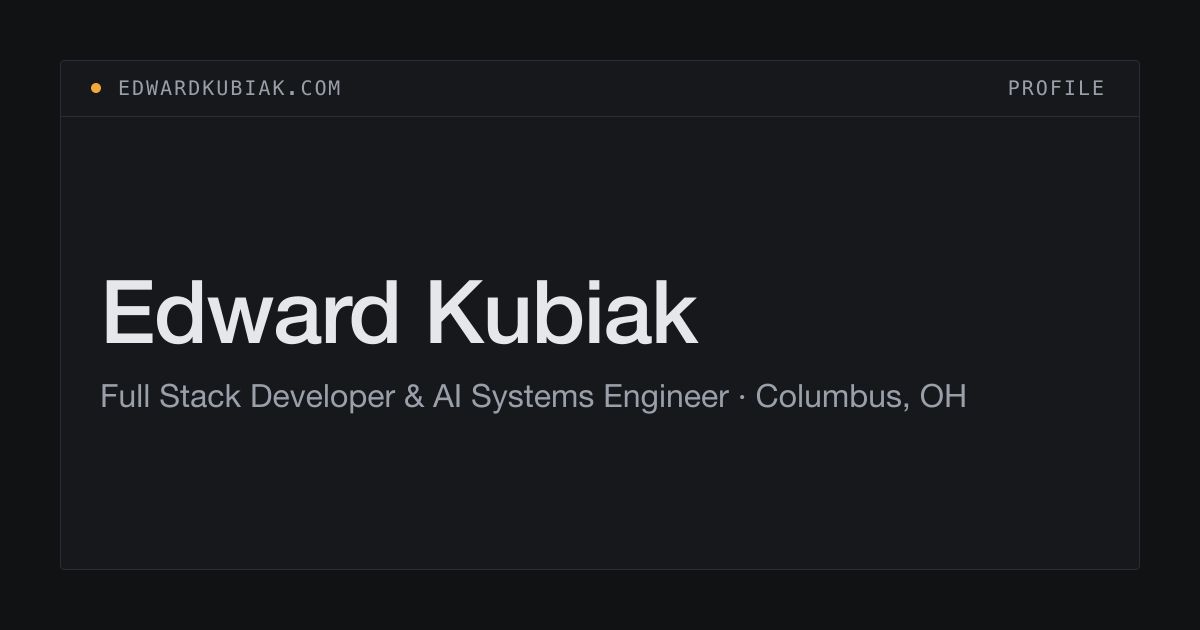
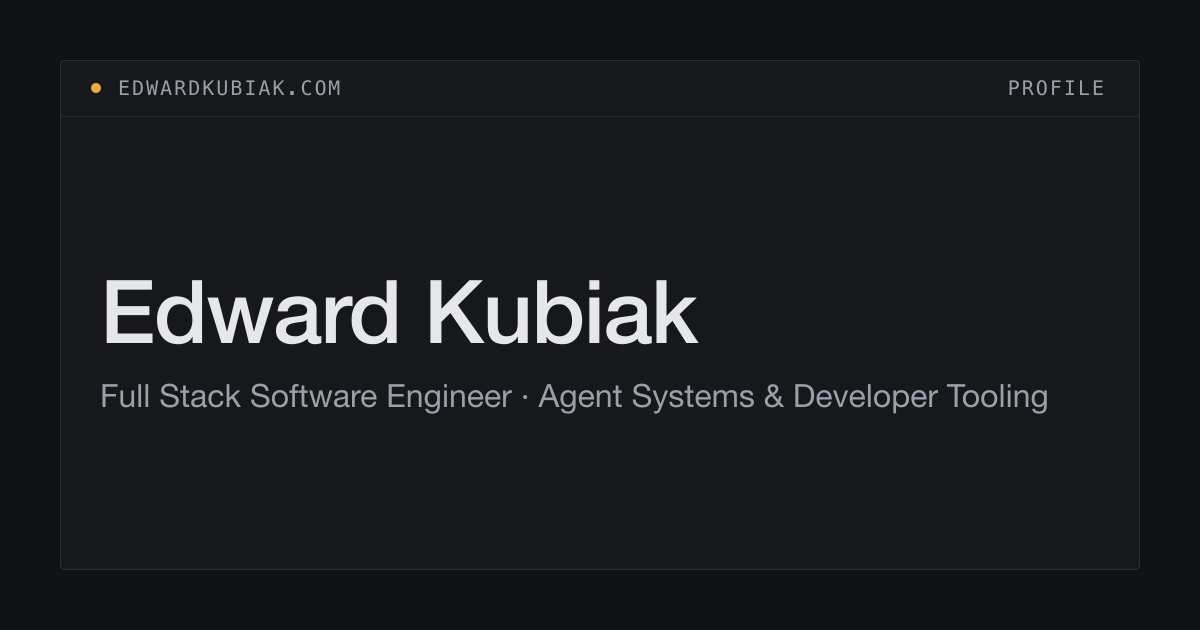
Use the canonical tagline in page metadata; drop the location (#70)
resume.js has said "Full Stack Software Engineer · Agent Systems &
Developer Tooling" since 2026-09-09, but the page metadata still said
"Full Stack Developer & AI Systems Engineer in Columbus, OH".

- Titles (document, OG, Twitter, routeMeta, manifest name) use "Edward
  Kubiak — Full Stack Software Engineer".
- Descriptions (meta, OG, Twitter, JSON-LD, manifest, RSS channel)
  and the site OG card subtitle use the full tagline, with no location.
  The site shell already shows none.
- Regenerate public/og-image.png with the documented invocation; the
  test now pins the new subtitle.
- Remove public/og/og-image.png, an unreferenced August card that still
  showed the old tagline and a clipped "Columbus".

The JSON-LD address and the résumé's location stay.

Changed region(s): [[0.2158, 0.6032, 0.8942, 0.6635]]

diff --git a/index.html b/index.html
@@ -9,12 +9,12 @@
     <meta http-equiv="Content-Security-Policy"
       content="default-src 'self'; script-src 'self' 'unsafe-inline' https://plausible.io; style-src 'self' 'unsafe-inline'; connect-src 'self' https://api.github.com https://plausible.io; img-src 'self' data:; font-src 'self';" />
     <meta name="referrer" content="strict-origin-when-cross-origin" />
-    <meta name="description" content="Edward Kubiak — Full Stack Developer &amp; AI Systems Engineer in Columbus, OH. Creator of CAST, a Claude Code agent framework, and Compute Atlas, a source-cited compute tracker." />
+    <meta name="description" content="Edward Kubiak — Full Stack Software Engineer · Agent Systems &amp; Developer Tooling. Creator of CAST, a Claude Code agent framework, and Compute Atlas, a source-cited compute tracker." />
 
     <!-- Open Graph -->
     <meta property="og:type" content="website" />
-    <meta property="og:title" content="Edward Kubiak — Full Stack Developer &amp; AI Systems Engineer" />
-    <meta property="og:description" content="Edward Kubiak — Full Stack Developer &amp; AI Systems Engineer in Columbus, OH. Creator of CAST, a Claude Code agent framework, and Compute Atlas, a source-cited compute tracker." />
+    <meta property="og:title" content="Edward Kubiak — Full Stack Software Engineer" />
+    <meta property="og:description" content="Edward Kubiak — Full Stack Software Engineer · Agent Systems &amp; Developer Tooling. Creator of CAST, a Claude Code agent framework, and Compute Atlas, a source-cited compute tracker." />
     <meta property="og:url" content="https://edwardkubiak.com/" />
 
     <meta property="og:image" content="https://edwardkubiak.com/og-image.png" />
@@ -23,8 +23,8 @@
 
     <!-- Twitter Card -->
     <meta name="twitter:card" content="summary_large_image" />
-    <meta name="twitter:title" content="Edward Kubiak — Full Stack Developer &amp; AI Systems Engineer" />
-    <meta name="twitter:description" content="Edward Kubiak — Full Stack Developer &amp; AI Systems Engineer in Columbus, OH. Creator of CAST, a Claude Code agent framework, and Compute Atlas, a source-cited compute tracker." />
+    <meta name="twitter:title" content="Edward Kubiak — Full Stack Software Engineer" />
+    <meta name="twitter:description" content="Edward Kubiak — Full Stack Software Engineer · Agent Systems &amp; Developer Tooling. Creator of CAST, a Claude Code agent framework, and Compute Atlas, a source-cited compute tracker." />
     <meta name="twitter:image" content="https://edwardkubiak.com/og-image.png" />
 
     <link rel="canonical" href="https://edwardkubiak.com/" />
@@ -33,7 +33,7 @@
     <link rel="apple-touch-icon" href="/apple-touch-icon.png?v=3" />
     <link rel="manifest" href="/manifest.json" />
     <link rel="alternate" type="application/rss+xml" title="Edward Kubiak" href="/rss.xml" />
-    <title>Edward Kubiak — Full Stack Developer &amp; AI Systems Engineer</title>
+    <title>Edward Kubiak — Full Stack Software Engineer</title>
 
     <!-- Plausible Analytics — privacy-preserving, cookieless -->
     <script defer data-domain="edwardkubiak.com" src="https://plausible.io/js/script.js"></script>
@@ -44,13 +44,13 @@
       "@context": "https://schema.org",
       "@type": "Person",
       "name": "Edward Kubiak",
-      "jobTitle": "Full Stack Developer & AI Systems Engineer",
+      "jobTitle": "Full Stack Software Engineer",
       "url": "https://edwardkubiak.com",
       "sameAs": [
         "https://github.com/ek33450505",
         "https://www.linkedin.com/in/edward-kubiak/"
       ],
-      "description": "Full Stack Developer & AI Systems Engineer based in Columbus, OH. Creator of CAST, a local-first open-source multi-agent framework for Claude Code, and Compute Atlas, a source-cited tracker of U.S. grid-scale compute infrastructure.",
+      "description": "Full Stack Software Engineer · Agent Systems & Developer Tooling. Creator of CAST, a local-first open-source multi-agent framework for Claude Code, and Compute Atlas, a source-cited tracker of U.S. grid-scale compute infrastructure.",
       "worksFor": {
         "@type": "Organization",
         "name": "META Solutions",

diff --git a/src/data/routeMeta.js b/src/data/routeMeta.js
@@ -3,7 +3,7 @@
 // document meta) and scripts/prerender-routes.mjs (build-time head prerender).
 export const ROUTE_META = {
   "/": {
-    title: "Edward Kubiak — Full Stack Developer & AI Systems Engineer",
+    title: "Edward Kubiak — Full Stack Software Engineer",
     description:
       "Edward Kubiak, full-stack engineer. Built Compute Atlas, a source-cited data product cited by Erin Brockovich's data center map, with CAST, a Claude Code architecture.",
     canonical: "/",

diff --git a/README.md b/README.md
@@ -1,6 +1,6 @@
 # Edward Kubiak — Portfolio
 
-**[edwardkubiak.com](https://edwardkubiak.com/) — Full Stack Developer & AI Systems Engineer**
+**[edwardkubiak.com](https://edwardkubiak.com/) — Full Stack Software Engineer · Agent Systems & Developer Tooling**
 
 I build production web applications and the tooling that keeps agent-written code
 honest. Agents write most of my code now; that moved the work rather than removing
